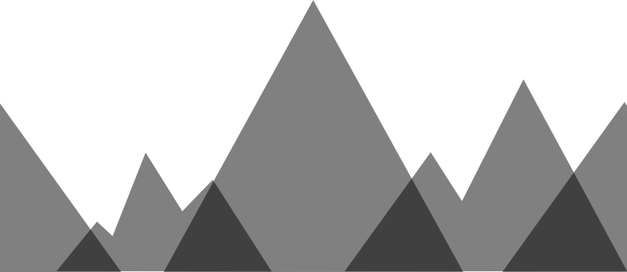
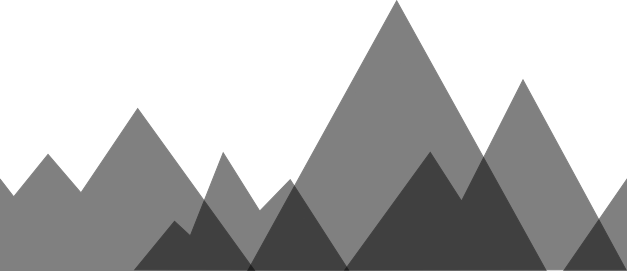
Tweaked background styles for home page; added bg styles for interior and community pages

diff --git a/site/public/stylesheets/site.css b/site/public/stylesheets/site.css
@@ -1294,58 +1294,95 @@ h1.ribbon > .ribbon-left {
   margin-bottom: 20px;
 }
 
-/* Site standard backgrounds */
-@media (min-width: 768px) {
-  /* Until we can build with compass this is directly included and modified
-  /* line 3, ../../app/stylesheets/home.scss */
-  /* line 611, ../../app/stylesheets/site.scss */
-  body > header {
-    background-image: url("../images/dark-gray-diagonal-noise.jpg");
-    background-image: url("../images/diagonals-top.png"), url("../images/mts.png"), -webkit-gradient(radial, circle, 0, circle, 2, color-stop(0%, white), color-stop(50%, white), color-stop(100%, rgba(255, 255, 255, 0))), -webkit-gradient(radial, circle, 0, circle, 2, color-stop(0%, white), color-stop(100%, rgba(0, 0, 0, 0))), -webkit-gradient(radial, circle, 0, circle, 2, color-stop(0%, #eeeeee), color-stop(100%, rgba(0, 0, 0, 0))), -webkit-gradient(radial, circle, 0, circle, 2, color-stop(0%, #eeeeee), color-stop(100%, rgba(0, 0, 0, 0))), url("../images/dark-gray-diagonal-noise.jpg");
-    background-image: url("../images/diagonals-top.png"), url("../images/mts.png"), -webkit-radial-gradient(circle, white 0%, white 1px, rgba(255, 255, 255, 0) 2px), -webkit-radial-gradient(circle, white 0%, rgba(0, 0, 0, 0) 2px), -webkit-radial-gradient(circle, #eeeeee 0%, rgba(0, 0, 0, 0) 2px), -webkit-radial-gradient(circle, #eeeeee 0%, rgba(0, 0, 0, 0) 2px), url("../images/dark-gray-diagonal-noise.jpg");
-    background-image: url("../images/diagonals-top.png"), url("../images/mts.png"), -moz-radial-gradient(circle, white 0%, white 1px, rgba(255, 255, 255, 0) 2px), -moz-radial-gradient(circle, white 0%, rgba(0, 0, 0, 0) 2px), -moz-radial-gradient(circle, #eeeeee 0%, rgba(0, 0, 0, 0) 2px), -moz-radial-gradient(circle, #eeeeee 0%, rgba(0, 0, 0, 0) 2px), url("../images/dark-gray-diagonal-noise.jpg");
-    background-image: url("../images/diagonals-top.png"), url("../images/mts.png"), -o-radial-gradient(circle, white 0%, white 1px, rgba(255, 255, 255, 0) 2px), -o-radial-gradient(circle, white 0%, rgba(0, 0, 0, 0) 2px), -o-radial-gradient(circle, #eeeeee 0%, rgba(0, 0, 0, 0) 2px), -o-radial-gradient(circle, #eeeeee 0%, rgba(0, 0, 0, 0) 2px), url("../images/dark-gray-diagonal-noise.jpg");
-    background-image: url("../images/diagonals-top.png"), url("../images/mts.png"), -ms-radial-gradient(circle, white 0%, white 1px, rgba(255, 255, 255, 0) 2px), -ms-radial-gradient(circle, white 0%, rgba(0, 0, 0, 0) 2px), -ms-radial-gradient(circle, #eeeeee 0%, rgba(0, 0, 0, 0) 2px), -ms-radial-gradient(circle, #eeeeee 0%, rgba(0, 0, 0, 0) 2px), url("../images/dark-gray-diagonal-noise.jpg");
-    background-image: url("../images/diagonals-top.png"), url("../images/mts.png"), radial-gradient(circle, #ffffff 0%, #ffffff 1px, rgba(255, 255, 255, 0) 2px), radial-gradient(circle, #ffffff 0%, rgba(0, 0, 0, 0) 2px), radial-gradient(circle, #eeeeee 0%, rgba(0, 0, 0, 0) 2px), radial-gradient(circle, #eeeeee 0%, rgba(0, 0, 0, 0) 2px), url("../images/dark-gray-diagonal-noise.jpg");
-    background-repeat: no-repeat,     repeat-x,     repeat, repeat, repeat, repeat, repeat;
-    background-size: auto,     auto,     457px 241px,     307px 151px,     167px 199px,     239px 257px,     auto;
-    background-position: right bottom, center bottom, left top, -157px center, 89px 97px, 43px 31px, center bottom;
-  }
-
-  /* line 49, ../../app/stylesheets/home.scss */
-  /* line 624, ../../app/stylesheets/site.scss */
-  .section-base {
-    background-color: #181919;
-    background-image: url("../images/diagonals-bottom.png"), url("../images/tiny-panda.png"), url("../images/mts-bottom.png");
-    background-repeat: no-repeat, no-repeat, repeat-x;
-    background-position: left top,     50px bottom,     center bottom;
-  }
-
-  /* line 61, ../../app/stylesheets/home.scss */
-  /* line 631, ../../app/stylesheets/site.scss */
-  .section-base .column-buzz {
-    background: black url("../images/black-noise.png");
-    margin: 0 80px;
-  }
+/* Background */
+/* line 607, ../../app/stylesheets/site.scss */
+body > header {
+  background-color: #191919;
[1 lines of base64/hex data omitted]
+  background-repeat: repeat-x,     repeat;
 }
+
+/* community background */
+/* line 618, ../../app/stylesheets/site.scss */
+body.community > header {
+  background-color: #191919;
[1 lines of base64/hex data omitted]
+  background-repeat: repeat-x,     repeat;
+  background-position: center bottom;
+}
+
+/* home-specific styles */
+/* line 630, ../../app/stylesheets/site.scss */
+body.home > header {
+  background-color: #191919;
[1 lines of base64/hex data omitted]
+  background-repeat: no-repeat,     repeat-x,     repeat,      repeat;
+  background-position: right bottom,     center bottom,     center bottom,      center bottom;
+}
+
+/* line 649, ../../app/stylesheets/site.scss */
+.home .messaging {
+  margin: 55px 0;
+}
+/* line 652, ../../app/stylesheets/site.scss */
+.home .messaging .primary {
+  margin-bottom: 10px;
+}
+/* line 655, ../../app/stylesheets/site.scss */
+.home .messaging .secondary {
+  max-width: 790px;
+  margin: 0 auto;
+  font-family: Liberation Sans, Helvetica Neue, Helvetica, Arial, Sans-serif;
+}
+/* line 660, ../../app/stylesheets/site.scss */
+.home .messaging h1, .home .messaging h2 {
+  color: white;
+}
+
+/* line 663, ../../app/stylesheets/site.scss */
+.home #buzz {
+  background-color: #181919;
+  background-image: url("../images/diagonals-bottom.png"), url("../images/mts-bottom.png");
+  background-repeat: no-repeat, repeat-x;
+  background-position: left top,     center bottom;
+}
+/* line 673, ../../app/stylesheets/site.scss */
+.home #buzz .column-buzz {
+  background: black;
+  margin: 0 80px;
+}
+
 @media (max-width: 767px) {
-  /* line 638, ../../app/stylesheets/site.scss */
-  body > header {
+  /* line 680, ../../app/stylesheets/site.scss */
+  body.home > header {
     background: url("../images/dark-gray-diagonal-noise.jpg") repeat;
   }
 
-  /* line 642, ../../app/stylesheets/site.scss */
-  .messaging {
+  /* line 684, ../../app/stylesheets/site.scss */
+  .home .messaging {
     margin: 0;
   }
 
-  /* line 646, ../../app/stylesheets/site.scss */
-  .section-base {
+  /* line 688, ../../app/stylesheets/site.scss */
+  .home #buzz {
     background-image: none;
   }
-  /* line 649, ../../app/stylesheets/site.scss */
-  .section-base .column-buzz {
+  /* line 690, ../../app/stylesheets/site.scss */
+  .home #buzz .column-buzz {
     background-image: none;
     margin: 0;
   }
+}
+@media (min-width: 1107px) and (max-width: 1137px) {
+  /* line 698, ../../app/stylesheets/site.scss */
+  .home #buzz {
+    background-image: url("../images/diagonals-bottom.png"), url("../images/tiny-panda.png"), url("../images/mts-bottom.png");
+    background-repeat: no-repeat, no-repeat, repeat-x;
+    background-position: left top,       right bottom,       center bottom;
+  }
+}
+/* line 711, ../../app/stylesheets/site.scss */
+#nav {
+  background-color: transparent;
+  background-image: none;
 }

diff --git a/site/app/stylesheets/site.scss b/site/app/stylesheets/site.scss
@@ -603,53 +603,112 @@ h1.ribbon {
   margin-bottom: 20px;
 }
 
+/* Background */
+body > header {
+  background-color: #191919;
+  background-image:
+    url('../images/comets.png'),
+    url($transparentNoiseImageData);
+  background-repeat:
+    repeat-x,
+    repeat;
+}
 
-/* Site standard backgrounds */
-@media (min-width: 768px) {
-  /* Until we can build with compass this is directly included and modified
-  /* line 3, ../../app/stylesheets/home.scss */
-  body > header {
-    background-image: url("../images/dark-gray-diagonal-noise.jpg");
-    background-image: url("../images/diagonals-top.png"), url("../images/mts.png"), -webkit-gradient(radial, circle, 0, circle, 2, color-stop(0%, #ffffff), color-stop(50%, #ffffff), color-stop(100%, rgba(255, 255, 255, 0))), -webkit-gradient(radial, circle, 0, circle, 2, color-stop(0%, #ffffff), color-stop(100%, rgba(0, 0, 0, 0))), -webkit-gradient(radial, circle, 0, circle, 2, color-stop(0%, #eeeeee), color-stop(100%, rgba(0, 0, 0, 0))), -webkit-gradient(radial, circle, 0, circle, 2, color-stop(0%, #eeeeee), color-stop(100%, rgba(0, 0, 0, 0))), url("../images/dark-gray-diagonal-noise.jpg");
-    background-image: url("../images/diagonals-top.png"), url("../images/mts.png"), -webkit-radial-gradient(circle, #ffffff 0%, #ffffff 1px, rgba(255, 255, 255, 0) 2px), -webkit-radial-gradient(circle, #ffffff 0%, rgba(0, 0, 0, 0) 2px), -webkit-radial-gradient(circle, #eeeeee 0%, rgba(0, 0, 0, 0) 2px), -webkit-radial-gradient(circle, #eeeeee 0%, rgba(0, 0, 0, 0) 2px), url("../images/dark-gray-diagonal-noise.jpg");
-    background-image: url("../images/diagonals-top.png"), url("../images/mts.png"), -moz-radial-gradient(circle, #ffffff 0%, #ffffff 1px, rgba(255, 255, 255, 0) 2px), -moz-radial-gradient(circle, #ffffff 0%, rgba(0, 0, 0, 0) 2px), -moz-radial-gradient(circle, #eeeeee 0%, rgba(0, 0, 0, 0) 2px), -moz-radial-gradient(circle, #eeeeee 0%, rgba(0, 0, 0, 0) 2px), url("../images/dark-gray-diagonal-noise.jpg");
-    background-image: url("../images/diagonals-top.png"), url("../images/mts.png"), -o-radial-gradient(circle, #ffffff 0%, #ffffff 1px, rgba(255, 255, 255, 0) 2px), -o-radial-gradient(circle, #ffffff 0%, rgba(0, 0, 0, 0) 2px), -o-radial-gradient(circle, #eeeeee 0%, rgba(0, 0, 0, 0) 2px), -o-radial-gradient(circle, #eeeeee 0%, rgba(0, 0, 0, 0) 2px), url("../images/dark-gray-diagonal-noise.jpg");
-    background-image: url("../images/diagonals-top.png"), url("../images/mts.png"), -ms-radial-gradient(circle, #ffffff 0%, #ffffff 1px, rgba(255, 255, 255, 0) 2px), -ms-radial-gradient(circle, #ffffff 0%, rgba(0, 0, 0, 0) 2px), -ms-radial-gradient(circle, #eeeeee 0%, rgba(0, 0, 0, 0) 2px), -ms-radial-gradient(circle, #eeeeee 0%, rgba(0, 0, 0, 0) 2px), url("../images/dark-gray-diagonal-noise.jpg");
-    background-image: url("../images/diagonals-top.png"), url("../images/mts.png"), radial-gradient(circle, #ffffff 0%, #ffffff 1px, rgba(255, 255, 255, 0) 2px), radial-gradient(circle, #ffffff 0%, rgba(0, 0, 0, 0) 2px), radial-gradient(circle, #eeeeee 0%, rgba(0, 0, 0, 0) 2px), radial-gradient(circle, #eeeeee 0%, rgba(0, 0, 0, 0) 2px), url("../images/dark-gray-diagonal-noise.jpg");
-    background-repeat: no-repeat,     repeat-x,     repeat, repeat, repeat, repeat, repeat;
-    background-size: auto,     auto,     457px 241px,     307px 151px,     167px 199px,     239px 257px,     auto;
-    background-position: right bottom, center bottom, left top, -157px center, 89px 97px, 43px 31px, center bottom;
+/* community background */
+body.community > header {
+  background-color: #191919;
+  background-image:
+    url('../images/planets.png'),
+    url($transparentNoiseImageData);
+  background-repeat:
+    repeat-x,
+    repeat;
+  background-position: center bottom;
+}
+
+/* home-specific styles */
+body.home > header {
+  background-color: #191919; 
+  background-image:
+    url('../images/diagonals-top.png'),
+    url('../images/mts.png'), 
+    url($transparentNoiseImageData),
+    -moz-repeating-linear-gradient(110deg, #191919 0px, #191919 10px, #181818 10px, #181818 20px);
+  background-repeat:
+    no-repeat,
+    repeat-x,
+    repeat, 
+    repeat;
+  background-position:
+    right bottom,
+    center bottom,
+    center bottom, 
+    center bottom;
+}
+
+.home .messaging {
+  margin: 55px 0;
+  
+  .primary {
+    margin-bottom: 10px;
   }
-  /* line 49, ../../app/stylesheets/home.scss */
-  .section-base {
-    background-color: #181919;
-    background-image: url("../images/diagonals-bottom.png"), url("../images/tiny-panda.png"), url("../images/mts-bottom.png");
-    background-repeat: no-repeat, no-repeat, repeat-x;
-    background-position: left top,     50px bottom,     center bottom;
+  .secondary {
+    max-width: 790px;
+    margin: 0 auto;
+    font-family: Liberation Sans, Helvetica Neue, Helvetica, Arial, Sans-serif;
   }
-  /* line 61, ../../app/stylesheets/home.scss */
-  .section-base .column-buzz {
-    background: black url("../images/black-noise.png");
+  h1, h2 { color: white; }
+}
+
+.home #buzz {
+  background-color: #181919;
+  background-image: 
+    url('../images/diagonals-bottom.png'),
+    url('../images/mts-bottom.png');
+  background-repeat: no-repeat, repeat-x;
+  background-position: 
+    left top,
+    center bottom;
+
+  .column-buzz {
+    background: black;
     margin: 0 80px;
   }
 }
 
 @media (max-width: 767px) {
-  body > header {
+  body.home  > header {
     background: url('../images/dark-gray-diagonal-noise.jpg') repeat;
   }
 
-  .messaging {
+  .home .messaging {
     margin: 0;
   }
 
-  .section-base {
+  .home #buzz {
     background-image: none;
-
-    .column-buzz {
+    .column-buzz{
       background-image: none;
       margin: 0;
     }
   }
 }
 
+@media (min-width: 1107px) and (max-width: 1137px) {
+  .home #buzz {
+    background-image:
+      url('../images/diagonals-bottom.png'),
+      url('../images/tiny-panda.png'),
+      url('../images/mts-bottom.png');
+    background-repeat: no-repeat, no-repeat, repeat-x;
+    background-position:
+      left top,
+      right bottom,
+      center bottom;
+  }
+}
+
+#nav { 
+  background-color: transparent;
+  background-image: none;
+}
